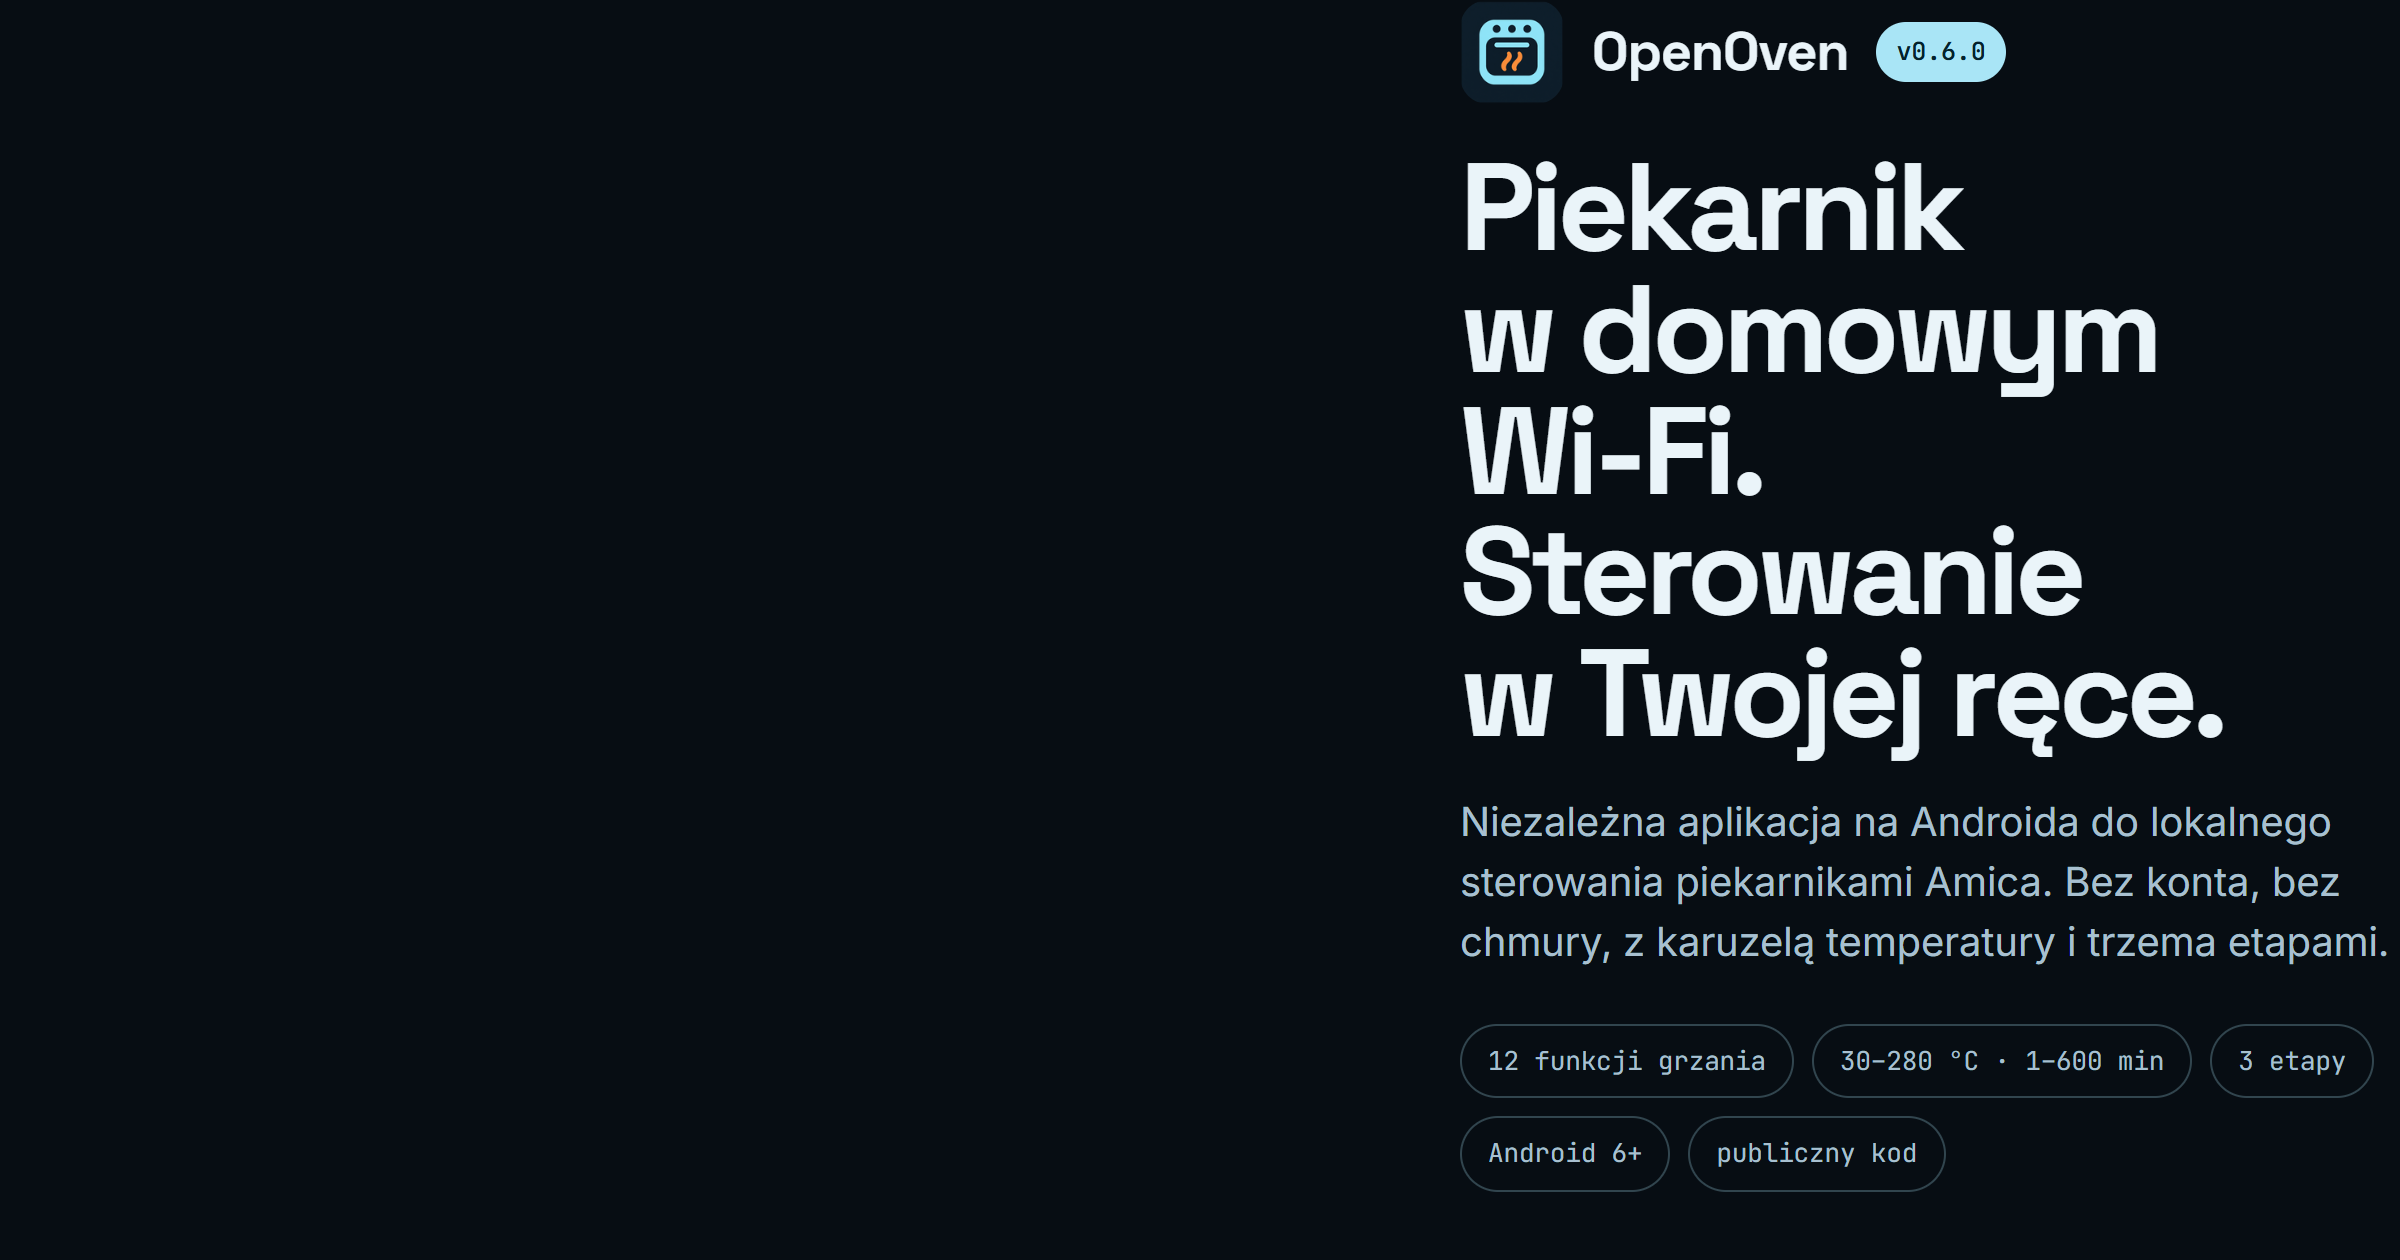
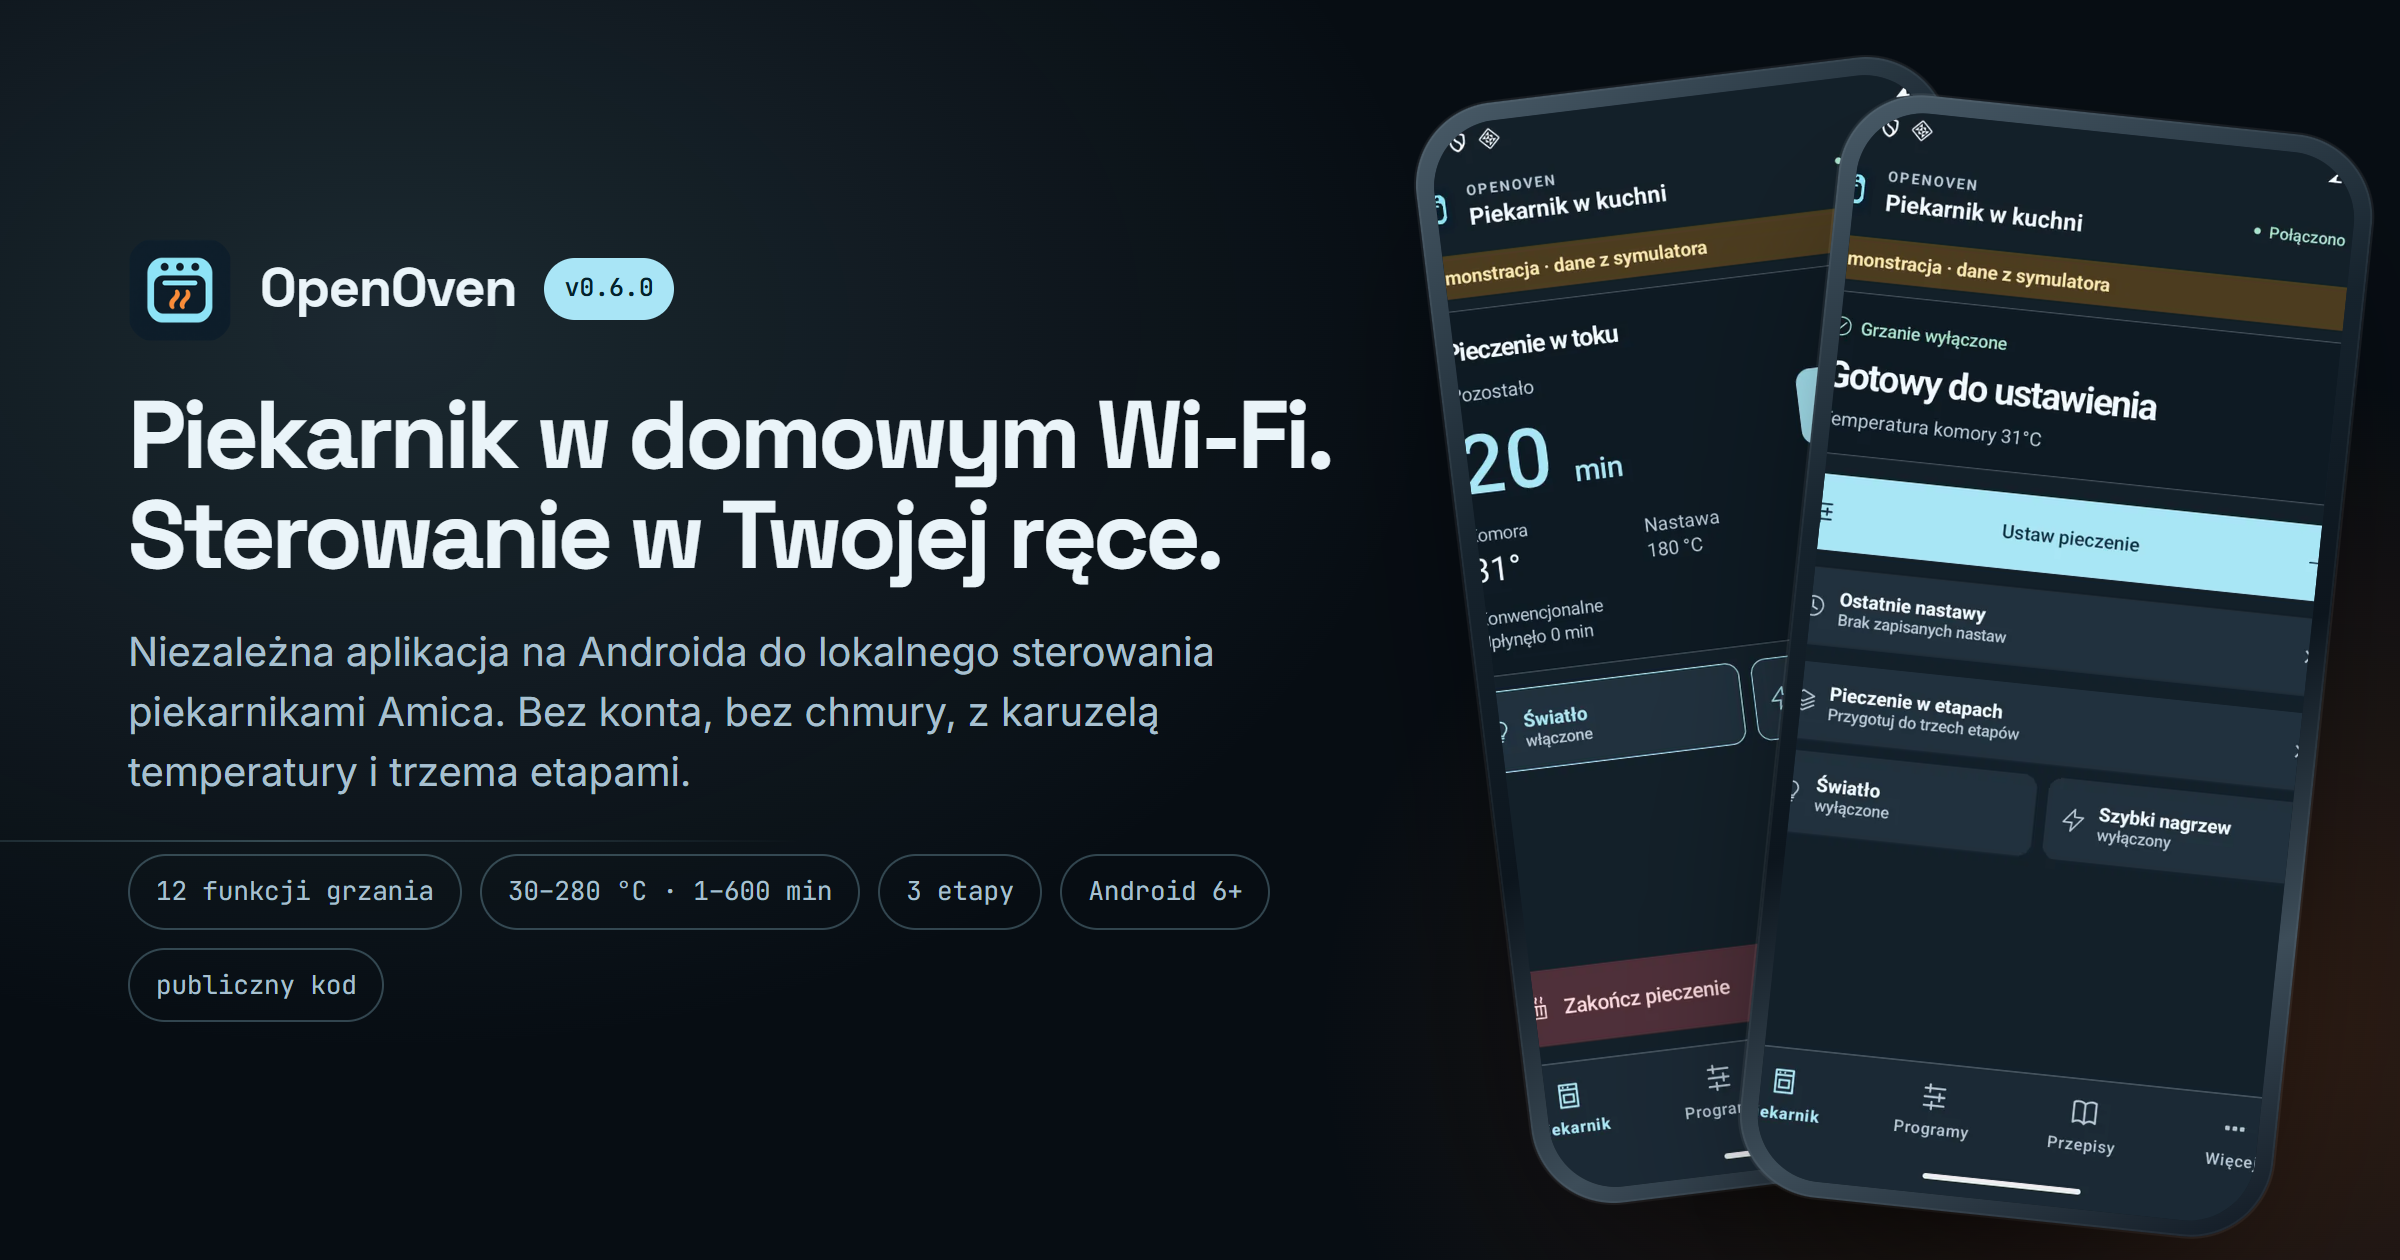
Popraw okładkę społecznościową i drobne błędy tekstu
Warstwa dekoracyjna okładki używała klasy .field, która w styles.css
jest dziś siatką pól formularza, przez co tekst wchodził w drugą
kolumnę, a makiety telefonów wypadały poza kadr. Plik jest teraz
mierzonego w Playwright: Treść mieści się dokładnie w 1200x630,
oba telefony pozostają w kadrze.

Poprawki tekstu strony: "Cztery kroki", "na testowanym piekarniku",
"W systemie Windows", liczby kodu (5447 linii w 34 plikach publicznego
repozytorium) oraz ostatnia wzmianka o licencji Apache zastąpiona
rzeczywistym stanem.

diff --git a/docs/index.html b/docs/index.html
@@ -1373,9 +1373,9 @@
   <div class="wrap">
     <div class="sechead" data-reveal>
       <p class="eyebrow">08 — Pierwsze połączenie</p>
-      <h2>Ctery kroki do pierwszego odczytu</h2>
+      <h2>Cztery kroki do pierwszego odczytu</h2>
       <p>Ścieżka dla piekarnika, który jest już w domowym Wi-Fi. Nazwy opcji zależą od panelu —
-      na testowanym licznik <span class="mono">05</span> oznacza otwarte okno parowania.</p>
+      na testowanym piekarniku licznik <span class="mono">05</span> oznacza otwarte okno parowania.</p>
     </div>
 
     <div class="steps4" id="pairSteps">
@@ -1437,7 +1437,7 @@
 cd openoven
 ./gradlew :core:test :app:assembleDebug</code></pre>
         <p class="hint">APK pojawi się w <span class="mono">app/build/outputs/apk/debug/</span>.
-        W Windows użyj <span class="mono">gradlew.bat</span>.</p>
+        W systemie Windows użyj <span class="mono">gradlew.bat</span>.</p>
         <div class="ui__row" style="gap:var(--s3);flex-wrap:wrap">
           <a class="btn btn--ghost" href="https://github.com/techparka/openoven" rel="noopener">
             <svg width="17" height="17" aria-hidden="true"><use href="#i-github"/></svg> Otwórz repozytorium
